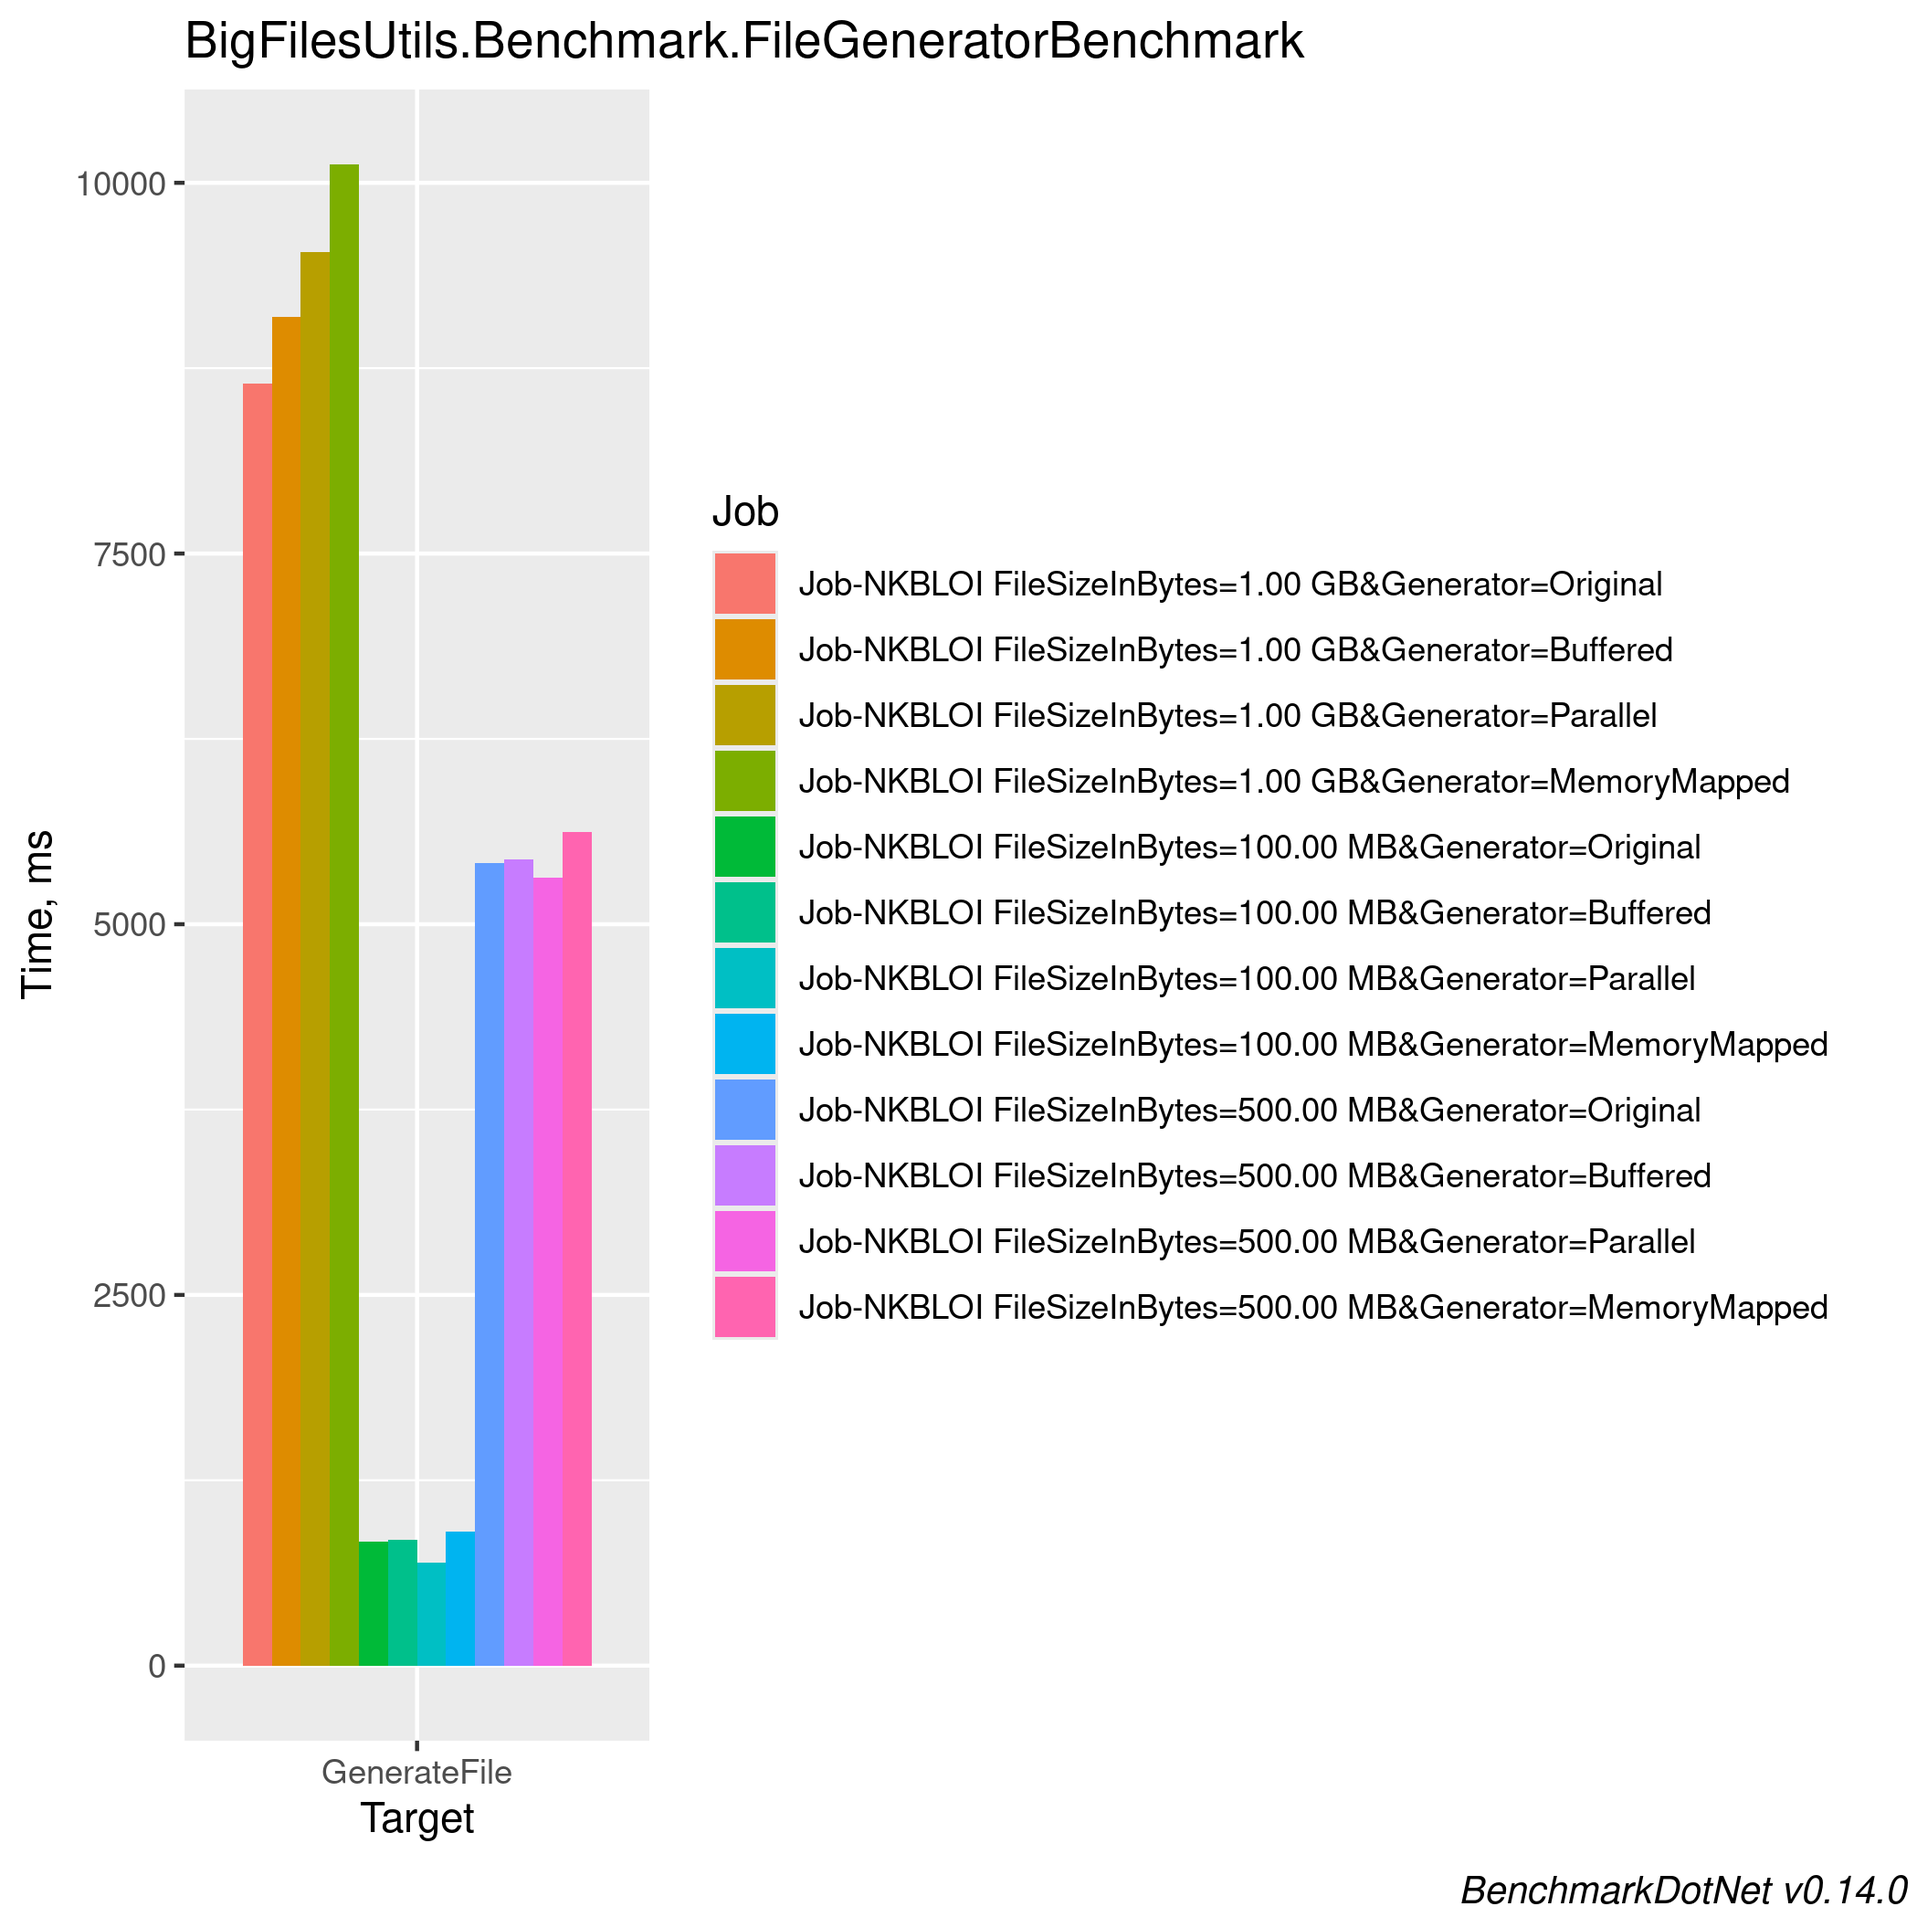
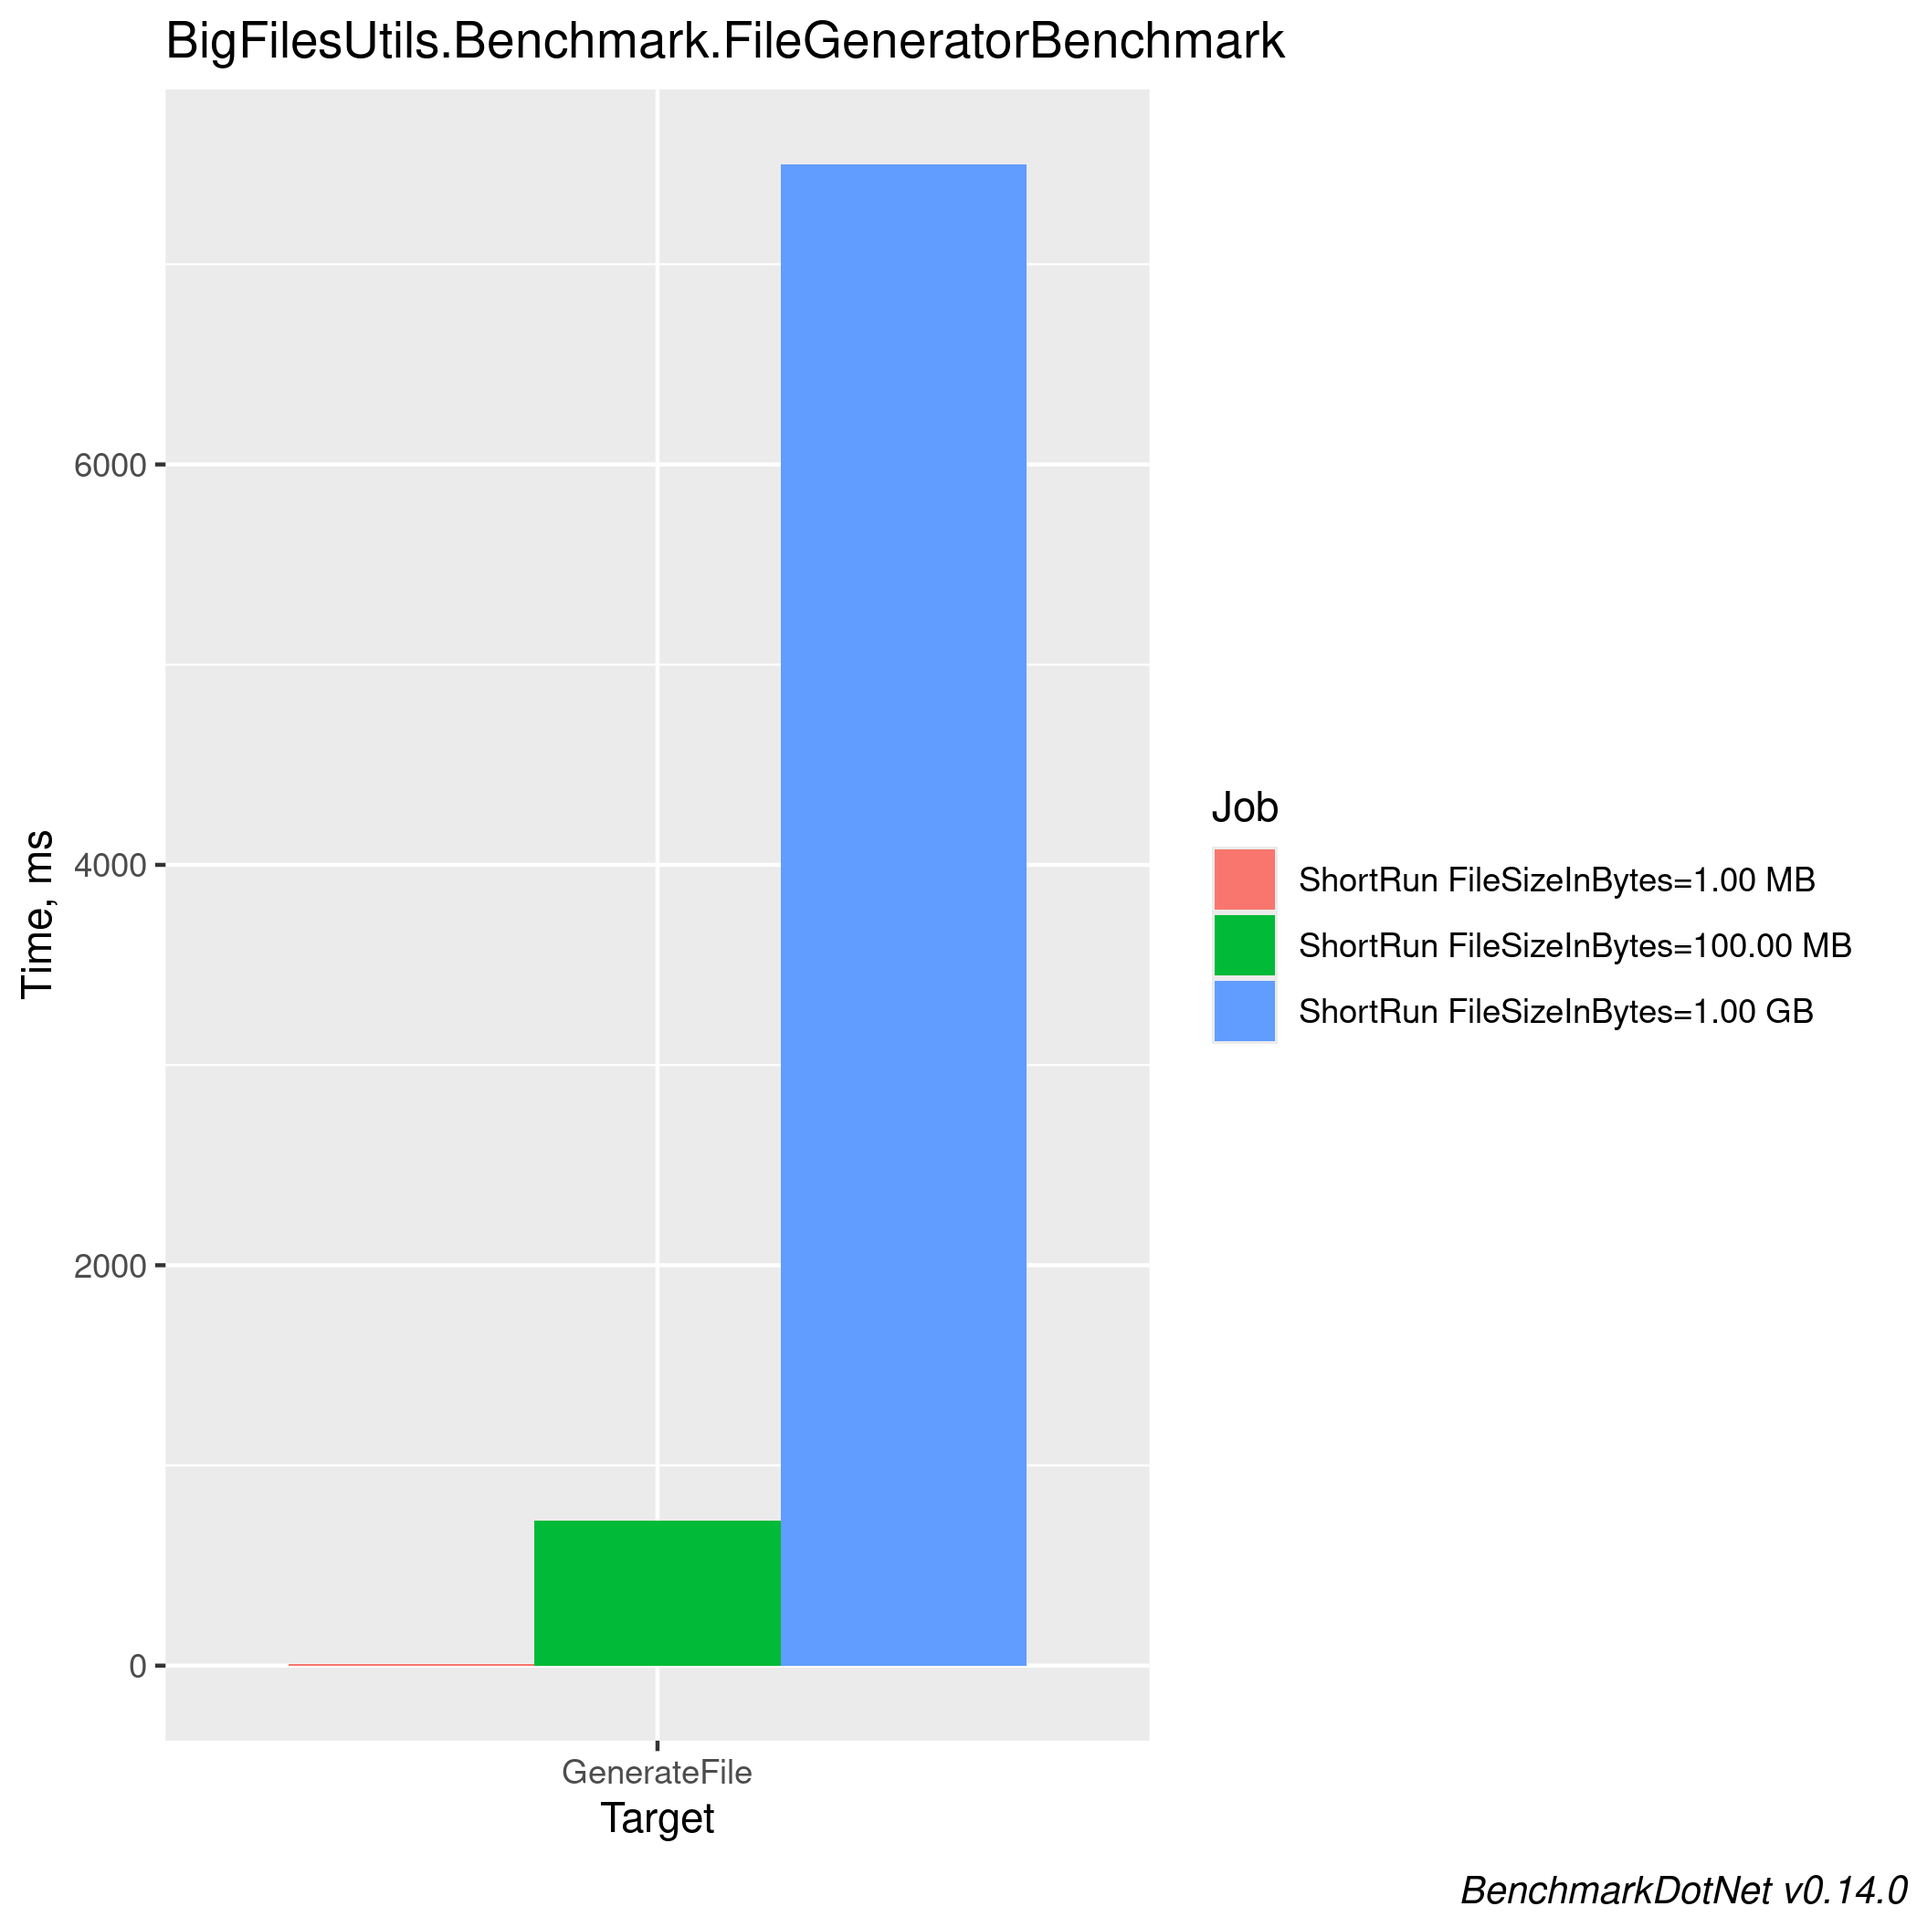
Update benchmark results in README

diff --git a/docs/BigFilesUtils.Benchmark.FileGeneratorBenchmark-report-github.md b/docs/BigFilesUtils.Benchmark.FileGeneratorBenchmark-report-github.md
@@ -3,24 +3,15 @@
 BenchmarkDotNet v0.14.0, Ubuntu 22.04.5 LTS (Jammy Jellyfish)
 AMD EPYC 7763, 1 CPU, 2 logical cores and 1 physical core
 .NET SDK 8.0.402
-  [Host]     : .NET 8.0.8 (8.0.824.36612), X64 RyuJIT AVX2
-  Job-NKBLOI : .NET 8.0.8 (8.0.824.36612), X64 RyuJIT AVX2
+  [Host]   : .NET 8.0.8 (8.0.824.36612), X64 RyuJIT AVX2
+  ShortRun : .NET 8.0.8 (8.0.824.36612), X64 RyuJIT AVX2
 
-Server=True  InvocationCount=3  IterationCount=3  
-LaunchCount=5  UnrollFactor=1  WarmupCount=2  
+Job=ShortRun  Server=True  IterationCount=3  
+LaunchCount=1  WarmupCount=3  
 
 ```
-| Method       | FileSizeInBytes | Generator    | FileSize | Mean      | Error    | StdDev   | StdErr   | Min      | Max       | Median    | Q1       | Q3        | Op/s   | Rank | Gen0        | Gen1        | Gen2        | Allocated  |
-|------------- |---------------- |------------- |--------- |----------:|---------:|---------:|---------:|---------:|----------:|----------:|---------:|----------:|-------:|-----:|------------:|------------:|------------:|-----------:|
-| GenerateFile | 1.00 GB         | Original     | ?        |  8.6460 s | 0.3693 s | 0.3454 s | 0.0892 s | 8.0517 s |  9.1652 s |  8.5570 s | 8.4111 s |  8.9216 s | 0.1157 |    5 |  19000.0000 |           - |           - | 5992.19 MB |
-| GenerateFile | 1.00 GB         | Buffered     | ?        |  9.0958 s | 0.3536 s | 0.3308 s | 0.0854 s | 8.5630 s |  9.6118 s |  9.1639 s | 8.8221 s |  9.3574 s | 0.1099 |    5 | 417333.3333 | 417333.3333 | 417333.3333 | 5122.35 MB |
-| GenerateFile | 1.00 GB         | Parallel     | ?        |  9.5307 s | 0.6131 s | 0.5735 s | 0.1481 s | 8.6362 s | 10.8499 s |  9.5743 s | 9.1070 s |  9.8392 s | 0.1049 |    5 |  11666.6667 |   3333.3333 |   2000.0000 | 3712.81 MB |
-| GenerateFile | 1.00 GB         | MemoryMapped | ?        | 10.1257 s | 0.1566 s | 0.1465 s | 0.0378 s | 9.9288 s | 10.3881 s | 10.0987 s | 9.9817 s | 10.2265 s | 0.0988 |    5 |  25666.6667 |           - |           - | 8115.34 MB |
-| GenerateFile | 100.00 MB       | Original     | ?        |  0.8331 s | 0.0260 s | 0.0244 s | 0.0063 s | 0.7812 s |  0.8718 s |  0.8365 s | 0.8173 s |  0.8479 s | 1.2004 |    2 |   1666.6667 |           - |           - |  585.46 MB |
-| GenerateFile | 100.00 MB       | Buffered     | ?        |  0.8500 s | 0.0159 s | 0.0149 s | 0.0038 s | 0.8283 s |  0.8785 s |  0.8468 s | 0.8389 s |  0.8613 s | 1.1764 |    2 |  40666.6667 |  40666.6667 |  40666.6667 |  500.78 MB |
-| GenerateFile | 100.00 MB       | Parallel     | ?        |  0.6970 s | 0.0375 s | 0.0351 s | 0.0091 s | 0.6232 s |  0.7475 s |  0.7025 s | 0.6769 s |  0.7212 s | 1.4347 |    1 |   1333.3333 |   1000.0000 |    666.6667 |   364.4 MB |
-| GenerateFile | 100.00 MB       | MemoryMapped | ?        |  0.9063 s | 0.0273 s | 0.0255 s | 0.0066 s | 0.8775 s |  0.9817 s |  0.8950 s | 0.8941 s |  0.9108 s | 1.1034 |    3 |   2333.3333 |           - |           - |  792.53 MB |
-| GenerateFile | 500.00 MB       | Original     | ?        |  5.4140 s | 0.1120 s | 0.1048 s | 0.0271 s | 5.1821 s |  5.5781 s |  5.3952 s | 5.3574 s |  5.4707 s | 0.1847 |    4 |   9000.0000 |           - |           - | 2926.04 MB |
-| GenerateFile | 500.00 MB       | Buffered     | ?        |  5.4383 s | 0.1299 s | 0.1215 s | 0.0314 s | 5.1958 s |  5.6025 s |  5.4470 s | 5.3900 s |  5.5414 s | 0.1839 |    4 | 204666.6667 | 204666.6667 | 204666.6667 | 2501.46 MB |
-| GenerateFile | 500.00 MB       | Parallel     | ?        |  5.3126 s | 0.1565 s | 0.1464 s | 0.0378 s | 5.1372 s |  5.6537 s |  5.2432 s | 5.2252 s |  5.3883 s | 0.1882 |    4 |   7333.3333 |   4666.6667 |   2666.6667 | 1820.56 MB |
-| GenerateFile | 500.00 MB       | MemoryMapped | ?        |  5.6208 s | 0.1724 s | 0.1612 s | 0.0416 s | 5.1841 s |  5.8446 s |  5.5972 s | 5.5581 s |  5.7009 s | 0.1779 |    4 |  12333.3333 |           - |           - | 3962.74 MB |
+| Method       | FileSizeInBytes | Mean     | Error    | StdDev   | Min      | Max      | Q1       | Q3       | Median   | Gen0       | Gen1    | Gen2    | Allocated |
+|------------- |---------------- |---------:|---------:|---------:|---------:|---------:|---------:|---------:|---------:|-----------:|--------:|--------:|----------:|
+| GenerateFile | 1.00 MB         | 0.0074 s | 0.0035 s | 0.0002 s | 0.0072 s | 0.0076 s | 0.0073 s | 0.0075 s | 0.0074 s |    62.5000 | 62.5000 | 62.5000 |   0.01 GB |
+| GenerateFile | 100.00 MB       | 0.7255 s | 0.2573 s | 0.0141 s | 0.7102 s | 0.7380 s | 0.7192 s | 0.7331 s | 0.7282 s |  1000.0000 |       - |       - |   0.57 GB |
+| GenerateFile | 1.00 GB         | 7.4999 s | 8.1040 s | 0.4442 s | 7.1572 s | 8.0018 s | 7.2490 s | 7.6713 s | 7.3408 s | 19000.0000 |       - |       - |   5.85 GB |

diff --git a/README.md b/README.md
@@ -5,7 +5,7 @@
 
 <!-- BENCHMARK RESULTS START -->
 
-*Last updated on Sat Sep 28 09:30:14 UTC 2024 UTC*
+*Last updated on Sat Sep 28 09:41:06 UTC 2024 UTC*
 
 ```
 
@@ -19,13 +19,12 @@ Job=ShortRun  Server=True  IterationCount=3
 LaunchCount=1  WarmupCount=3  
 
 ```
-| Method       | FileSizeInBytes | Mean      | Error     | StdDev   | Min       | Max       | Q1        | Q3        | Median    | Gen0        | Gen1    | Gen2    | Allocated |
-|------------- |---------------- |----------:|----------:|---------:|----------:|----------:|----------:|----------:|----------:|------------:|--------:|--------:|----------:|
-| GenerateFile | 1.00 MB         |  0.0074 s |  0.0016 s | 0.0001 s |  0.0073 s |  0.0075 s |  0.0073 s |  0.0074 s |  0.0074 s |     46.8750 | 46.8750 | 46.8750 |   0.01 GB |
-| GenerateFile | 100.00 MB       |  0.7004 s |  0.1982 s | 0.0109 s |  0.6879 s |  0.7071 s |  0.6971 s |  0.7067 s |  0.7063 s |   1000.0000 |       - |       - |   0.57 GB |
-| GenerateFile | 1.00 GB         |  7.5260 s |  9.8369 s | 0.5392 s |  7.1414 s |  8.1423 s |  7.2178 s |  7.7183 s |  7.2942 s |  18000.0000 |       - |       - |   5.85 GB |
-| GenerateFile | 10.00 GB        | 61.8924 s | 61.2775 s | 3.3588 s | 58.0374 s | 64.1887 s | 60.7442 s | 63.8199 s | 63.4510 s | 190000.0000 |       - |       - |  58.47 GB |
+| Method       | FileSizeInBytes | Mean     | Error    | StdDev   | Min      | Max      | Q1       | Q3       | Median   | Gen0       | Gen1    | Gen2    | Allocated |
+|------------- |---------------- |---------:|---------:|---------:|---------:|---------:|---------:|---------:|---------:|-----------:|--------:|--------:|----------:|
+| GenerateFile | 1.00 MB         | 0.0074 s | 0.0035 s | 0.0002 s | 0.0072 s | 0.0076 s | 0.0073 s | 0.0075 s | 0.0074 s |    62.5000 | 62.5000 | 62.5000 |   0.01 GB |
+| GenerateFile | 100.00 MB       | 0.7255 s | 0.2573 s | 0.0141 s | 0.7102 s | 0.7380 s | 0.7192 s | 0.7331 s | 0.7282 s |  1000.0000 |       - |       - |   0.57 GB |
+| GenerateFile | 1.00 GB         | 7.4999 s | 8.1040 s | 0.4442 s | 7.1572 s | 8.0018 s | 7.2490 s | 7.6713 s | 7.3408 s | 19000.0000 |       - |       - |   5.85 GB |
 
-![Benchmark Barplot](docs/FileGeneratorBenchmark-barplot.png)
+![Benchmark Barplot](docs/BigFilesUtils.Benchmark.FileGeneratorBenchmark-barplot.png)
 
 <!-- BENCHMARK RESULTS END -->
